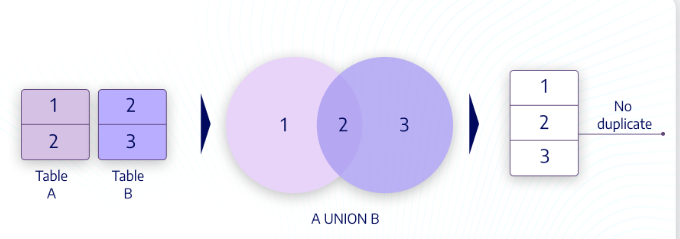
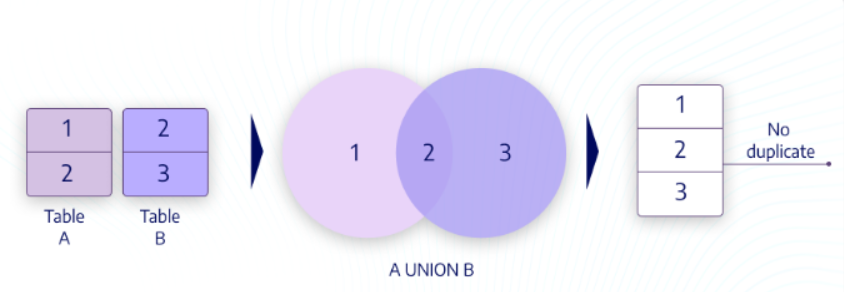
join

diff --git a/SQL/JOIN&UNION.md b/SQL/JOIN&UNION.md
@@ -101,7 +101,7 @@ FROM <테이블> 별칭 A
 - 각각 SELECT문의 열을 또한 **동일한 순서**로 있어야 함 
 - 열은 **호환되는 데이터 형식**을 가져야 함 
   
-![](./IMG/UNION.png)
+  ![](./img/union.png)
   
   출처: https://www.devart.com/dbforge/sql/sqlcomplete/union-vs-union-all.html
 
